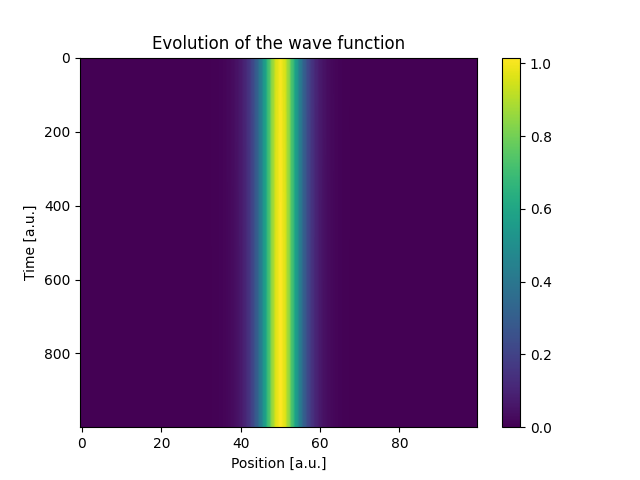
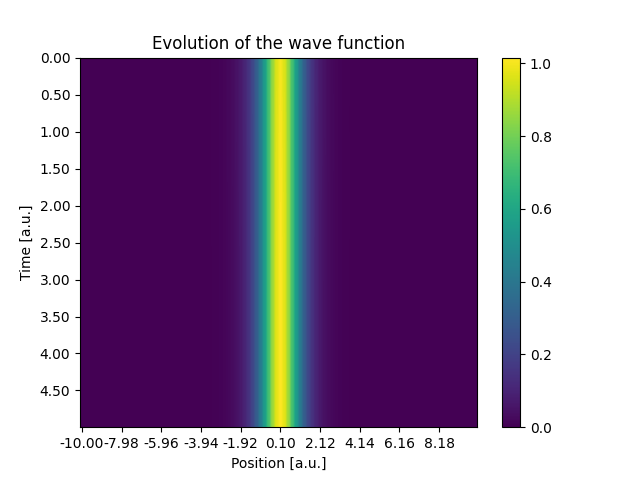
Fix report units

diff --git a/lib/managers/report.py b/lib/managers/report.py
@@ -27,11 +27,33 @@ with open(os.path.join(args.path, "metadata.json"), "r") as f:
     metadata = json.load(f)
 constants = metadata["constants"]
 
+
+I = np.arange(psi.shape[1])
+J = np.arange(psi.shape[0])
+T = np.linspace(constants["tMin"], constants["tMax"], psi.shape[0])
+X = np.linspace(constants["xMin"], constants["xMax"], psi.shape[1])
+
+
+# #################################
+# #             Plots             #
+# #################################
+
 # Plot the evolution
 evolution = plt.figure()
 plt.imshow(np.abs(psi) ** 2, aspect="auto")
 plt.xlabel("Position [a.u.]")
 plt.ylabel("Time [a.u.]")
+
+# Change the ticks to show the real values
+xTicks = X[:: int(len(X) / 10)]
+xTicksLabels = [f"{x:.2f}" for x in xTicks]
+plt.xticks(I[:: int(len(I) / 10)], xTicksLabels)
+
+tTicks = T[:: int(len(T) / 10)]
+tTicksLabels = [f"{t:.2f}" for t in tTicks]
+plt.yticks(J[:: int(len(J) / 10)], tTicksLabels)
+
+
 plt.title("Evolution of the wave function")
 plt.colorbar()
 plt.savefig(os.path.join(args.path, "evolution.png"))
@@ -41,18 +63,20 @@ theoretical = plt.figure()
 plt.imshow(np.abs(teo) ** 2, aspect="auto")
 plt.xlabel("Position [a.u.]")
 plt.ylabel("Time [a.u.]")
+
+# Change the ticks to show the real values
+xTicks = X[:: int(len(X) / 10)]
+xTicksLabels = [f"{x:.2f}" for x in xTicks]
+plt.xticks(I[:: int(len(I) / 10)], xTicksLabels)
+
+tTicks = T[:: int(len(T) / 10)]
+tTicksLabels = [f"{t:.2f}" for t in tTicks]
+plt.yticks(J[:: int(len(J) / 10)], tTicksLabels)
+
 plt.title("Theoretical evolution of the wave function")
 plt.colorbar()
 plt.savefig(os.path.join(args.path, "theoretical.png"))
 
-# Plot the evolution of the energy
-
-I = np.arange(psi.shape[1])
-J = np.arange(psi.shape[0])
-T = np.linspace(constants["tMin"], constants["tMax"], psi.shape[0])
-X = np.linspace(constants["xMin"], constants["xMax"], psi.shape[1])
-
-# Potential function:
 
 import base64
 import marshal
@@ -98,6 +122,7 @@ energy = plt.figure()
 plt.plot(T, nrg)
 plt.xlabel("Time [a.u.]")
 plt.ylabel("Energy [a.u.]")
+plt.ylim(0, nrg.max() * 1.2)
 plt.title("Evolution of the energy")
 plt.savefig(os.path.join(args.path, "energy.png"))
 
@@ -110,6 +135,7 @@ normPlot = plt.figure()
 plt.plot(T, norm)
 plt.xlabel("Time [a.u.]")
 plt.ylabel("Norm [a.u.]")
+plt.ylim(0, norm.max() * 1.2)
 plt.title("Evolution of the norm")
 plt.savefig(os.path.join(args.path, "norm.png"))
 
@@ -123,6 +149,7 @@ normTeoPlot = plt.figure()
 plt.plot(T, normTeo)
 plt.xlabel("Time [a.u.]")
 plt.ylabel("Norm [a.u.]")
+plt.ylim(0, normTeo.max() * 1.2)
 plt.title("Evolution of the norm (theoretical)")
 
 
@@ -137,10 +164,14 @@ similarityPlot = plt.figure()
 plt.plot(T, similarity)
 plt.xlabel("Time [a.u.]")
 plt.ylabel("Similarity [a.u.]")
+plt.ylim(0, similarity.max() * 1.2)
 plt.title("Evolution of the similarity")
 plt.savefig(os.path.join(args.path, "similarity.png"))
 
-# Make the report (pdf)
+
+# #################################
+# #             Report            #
+# #################################
 
 import inspect
 import io
@@ -192,7 +223,6 @@ for t in text:
 
 
 # Add the plots
-
 
 # Potential
 pdf.image(os.path.join(args.path, "potential0.png"), w=140)
